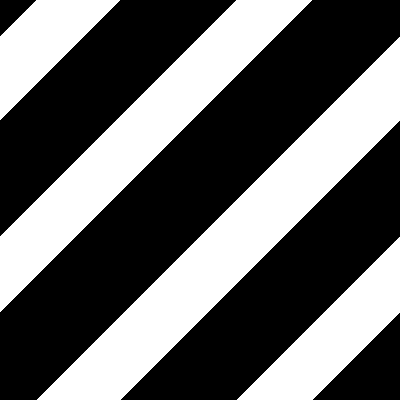
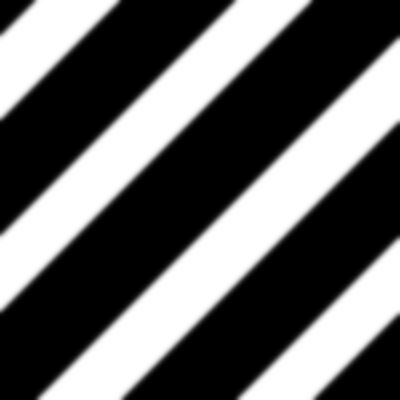
Minor selection overlay animation improvements
- Apply scaling before translation to keep animation speed
  scale-invariant
- Don't scale the texture smaller than 0.1x
- Blur fill pattern images, switch to 45 degree movement to prevent
  flickering

diff --git a/src/ui/graphics_items/polygon_outline.py b/src/ui/graphics_items/polygon_outline.py
@@ -14,7 +14,7 @@ from src.util.visual.image_utils import create_transparent_image
 
 PEN_WIDTH = 3
 MAX_DASH_OFFSET = 560
-FILL_OFFSET = 0.3
+FILL_OFFSET = 2.0
 ANIM_DURATION = 36000
 SCALE_MULTIPLIER = 0.1
 SELECTION_PATTERN_0_RESOURCE = f'{PROJECT_DIR}/resources/animated_fill_pattern_0.png'
@@ -39,7 +39,7 @@ class PolygonOutline(QGraphicsPathItem):
         self._transform_scale = SCALE_MULTIPLIER
 
         def _update_scale(new_scale):
-            inverse_scale = 1.0 / new_scale * SCALE_MULTIPLIER
+            inverse_scale = min(1.0 / new_scale, 1.0) * SCALE_MULTIPLIER
             if self._transform_scale != inverse_scale:
                 self._transform_scale = inverse_scale
                 self._update_pen_and_brush()
@@ -116,15 +116,13 @@ class PolygonOutline(QGraphicsPathItem):
         self.setPen(self._pen)
 
         brush = QBrush(self._fill_pixmap)
+        brush_transform = QTransform.fromScale(self._transform_scale, self._transform_scale)
         if self._animated_fill:
             texture_height = self._fill_pixmap.height()
             self._height_offset += FILL_OFFSET
             if self._height_offset > texture_height:
-                self._height_offset = 0
-            brush_transform = QTransform.fromTranslate(0, self._height_offset)
-        else:
-            brush_transform = QTransform()
-        brush_transform.scale(self._transform_scale, self._transform_scale)
+                self._height_offset = 0.0
+            brush_transform.translate(self._height_offset, self._height_offset)
         brush.setTransform(brush_transform)
         self.setBrush(brush)
 
